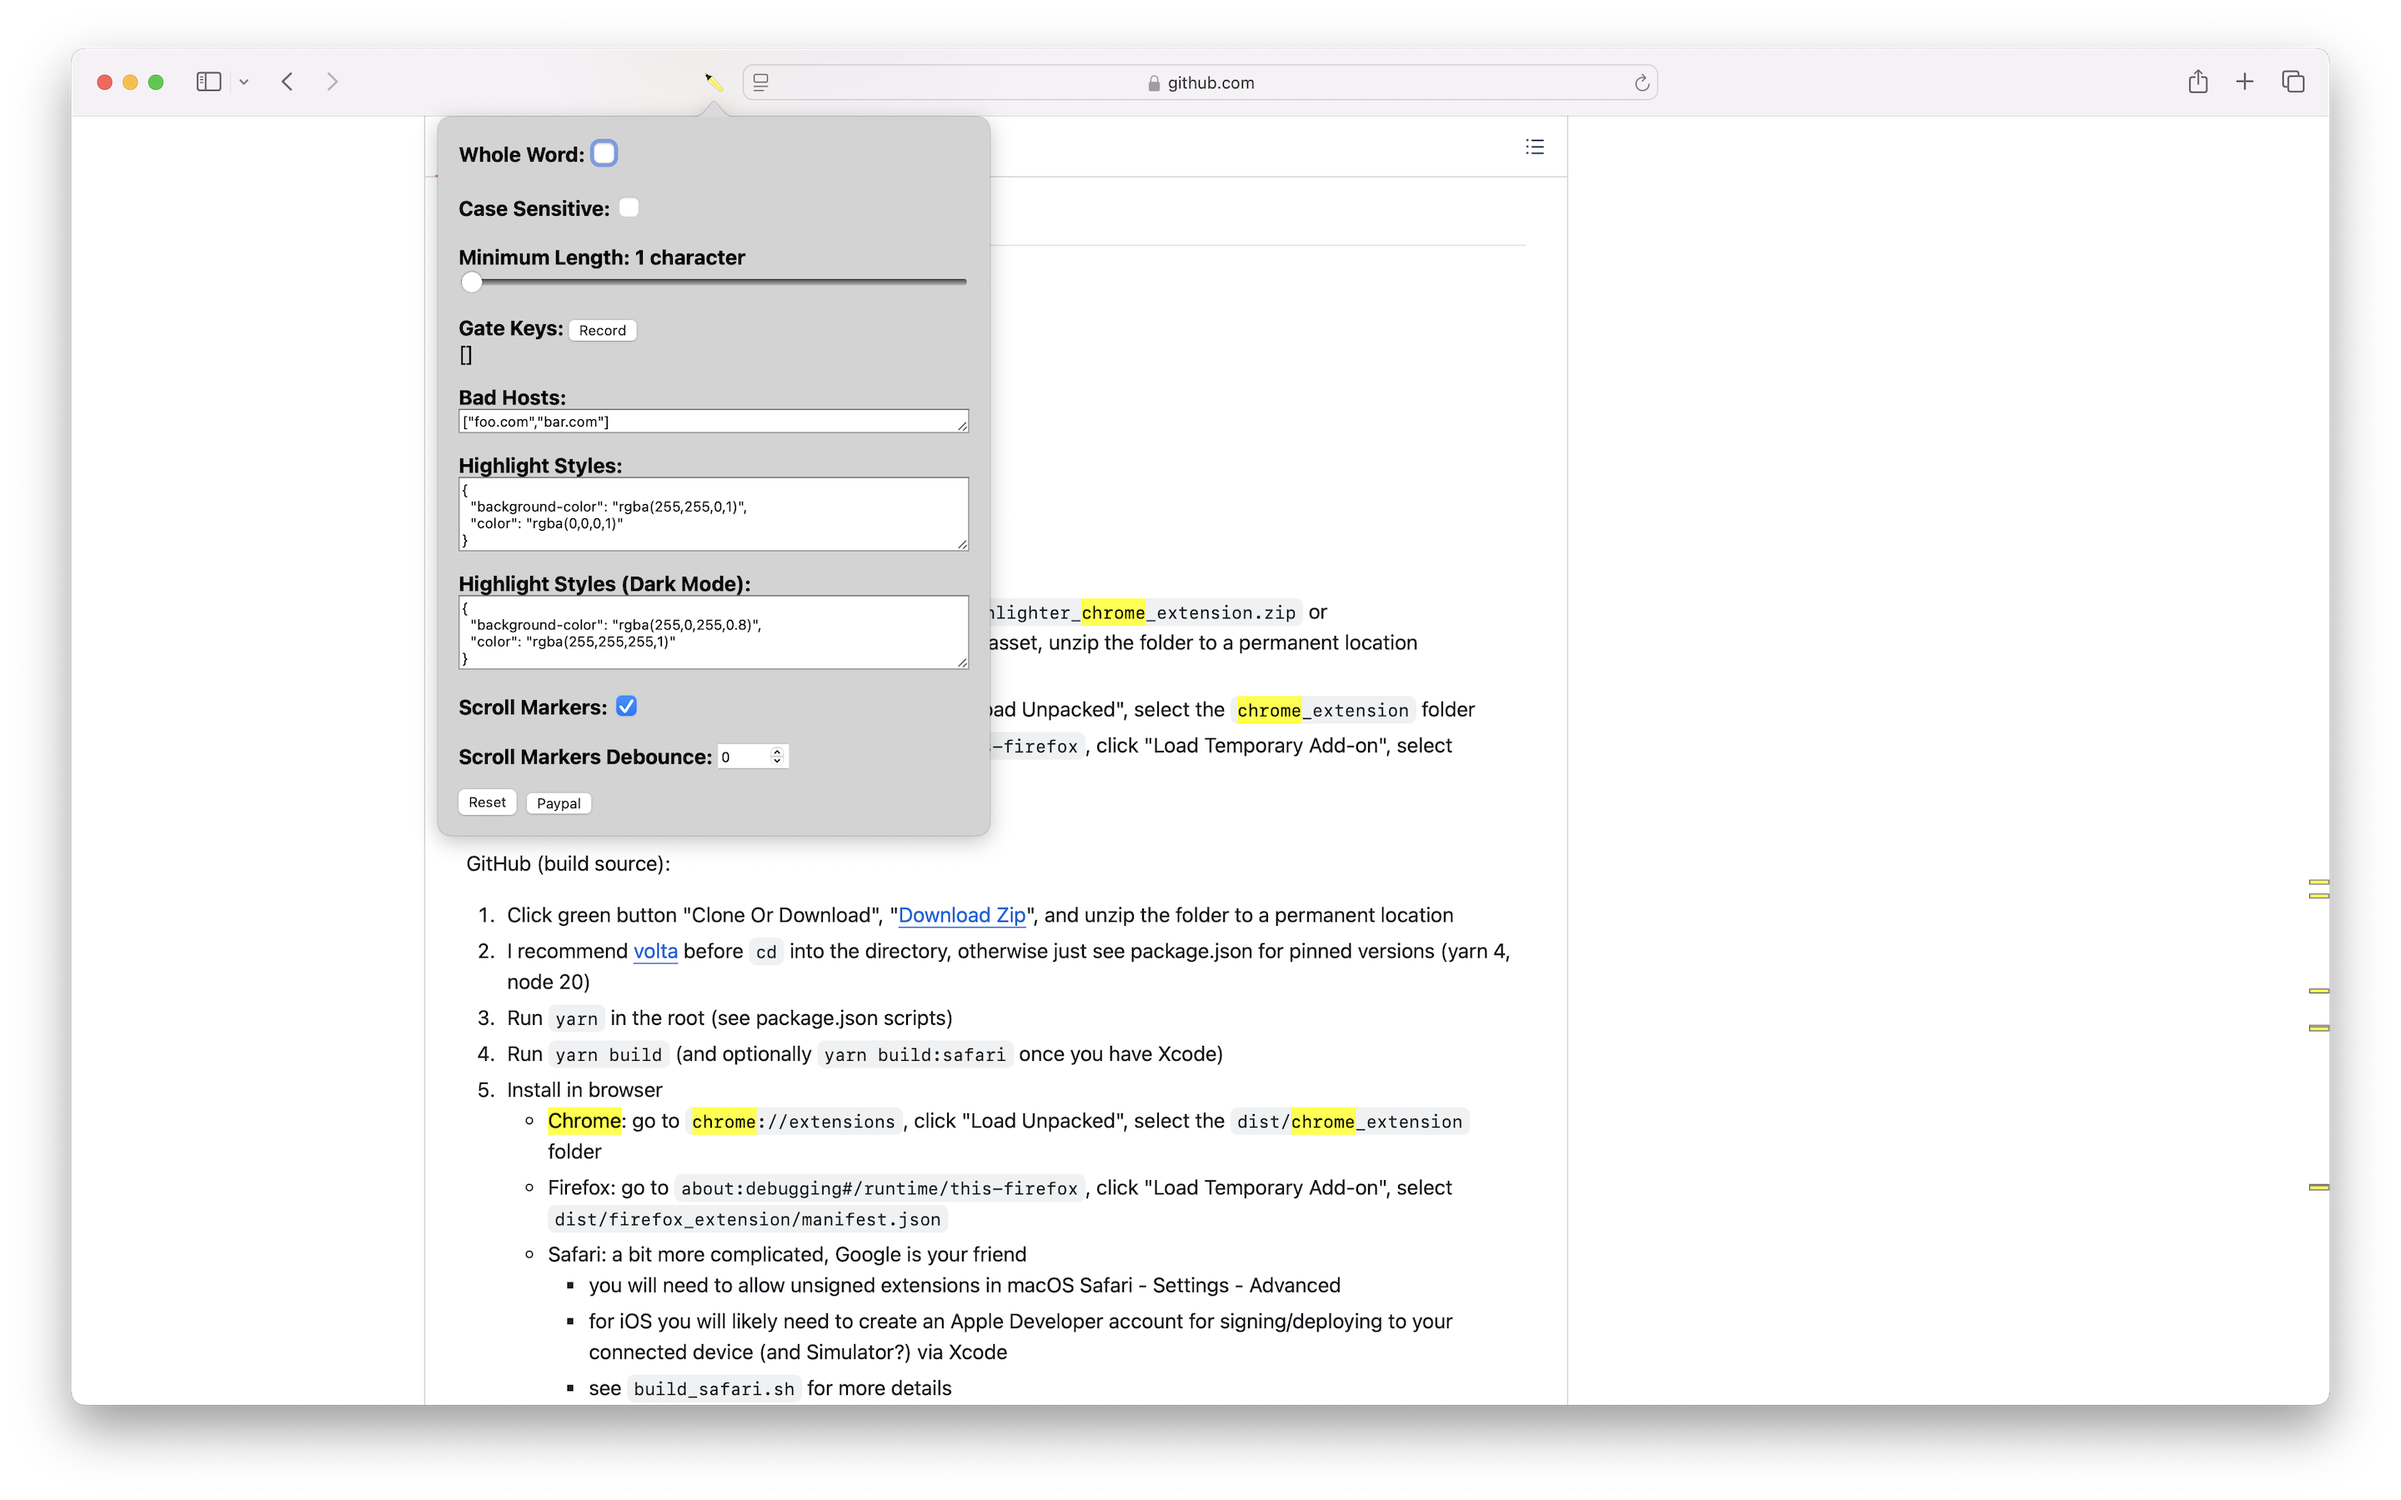
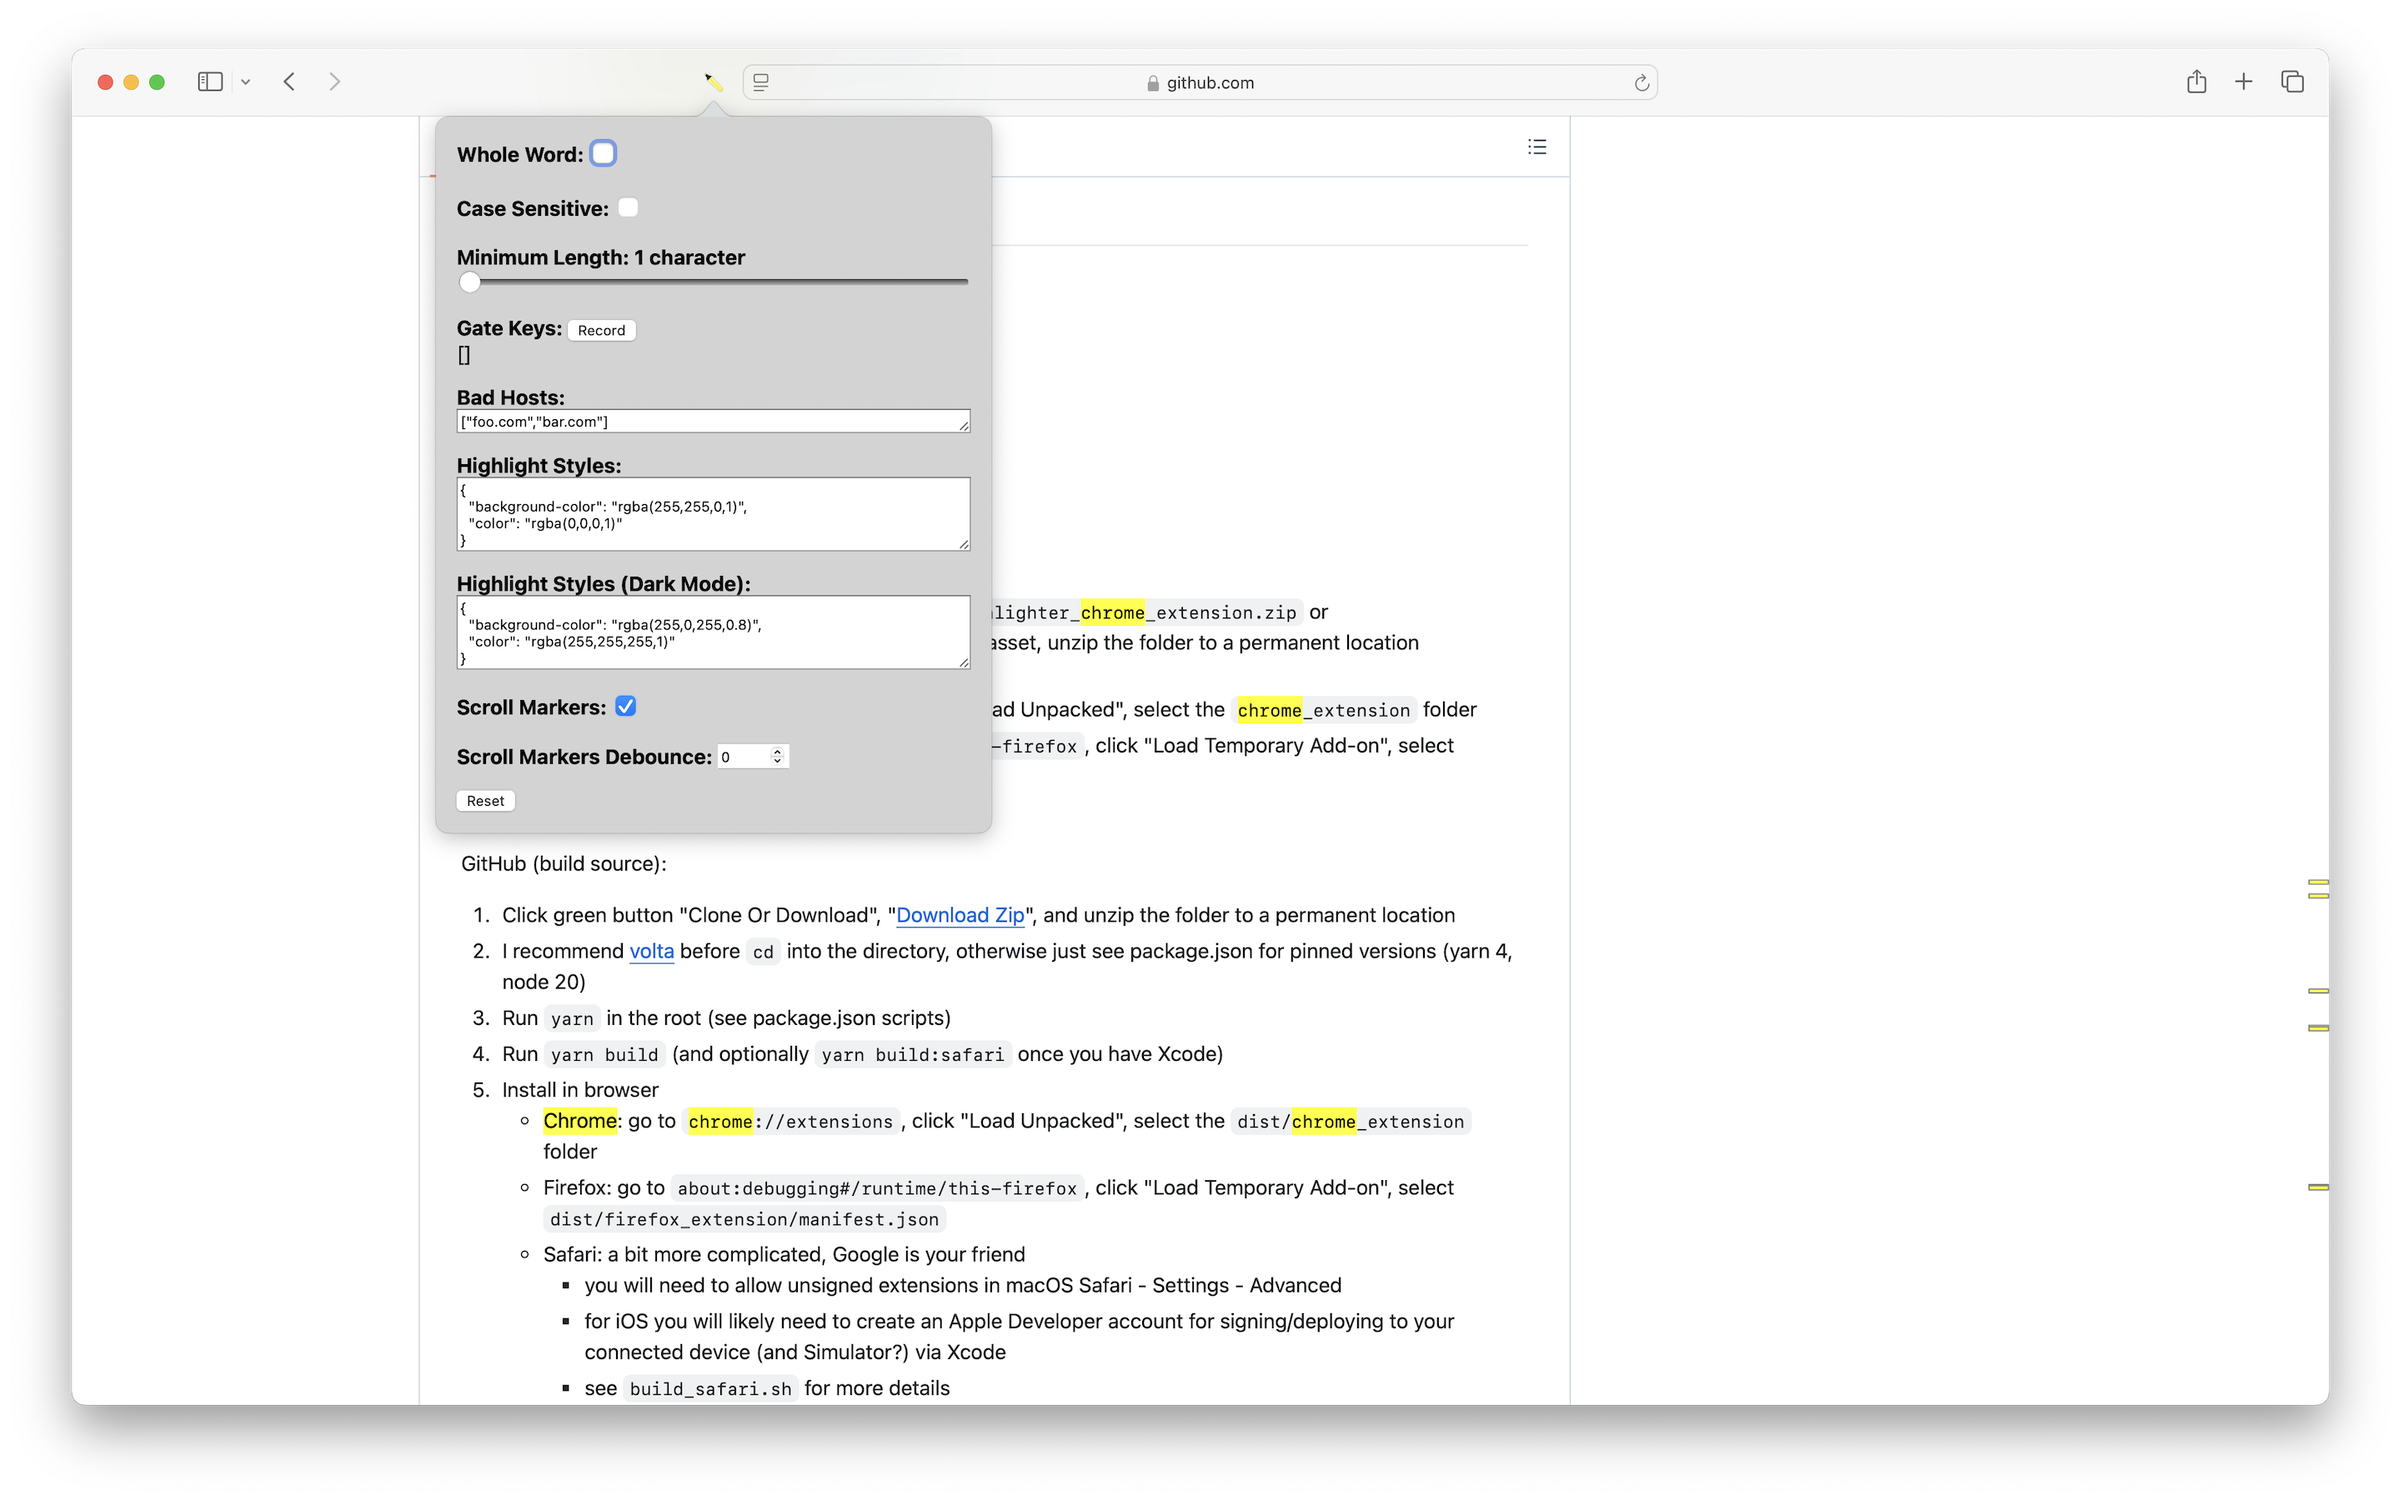
fix: remove paypal from safari versions

diff --git a/webpack.config.ts b/webpack.config.ts
@@ -1,5 +1,5 @@
 import path from "path";
-import { Configuration } from "webpack";
+import { Configuration, DefinePlugin } from "webpack";
 
 import packageJson from "./package.json";
 import { CleanWebpackPlugin } from "clean-webpack-plugin";
@@ -23,6 +23,7 @@ const config: Configuration[] = [
     outputDirectory: `dist/chrome_extension/content_script`,
   }),
   popup({
+    doesSupportPaypal: true,
     entry: `./src/popup/main.tsx`,
     outputDirectory: `dist/chrome_extension/popup`,
   }),
@@ -44,6 +45,7 @@ const config: Configuration[] = [
     outputDirectory: `dist/firefox_extension/content_script`,
   }),
   popup({
+    doesSupportPaypal: true,
     entry: `./src/popup/main.tsx`,
     outputDirectory: `dist/firefox_extension/popup`,
   }),
@@ -62,6 +64,7 @@ const config: Configuration[] = [
     outputDirectory: `build/safari_extension/content_script`,
   }),
   popup({
+    doesSupportPaypal: false,
     entry: `./src/popup/main.tsx`,
     outputDirectory: `build/safari_extension/popup`,
   }),
@@ -172,10 +175,15 @@ function content_script({
 }
 
 type PopupConfig = {
+  doesSupportPaypal: boolean;
   entry: string;
   outputDirectory: string;
 };
-function popup({ entry, outputDirectory }: PopupConfig): Configuration {
+function popup({
+  doesSupportPaypal,
+  entry,
+  outputDirectory,
+}: PopupConfig): Configuration {
   return {
     entry: entry,
     output: {
@@ -184,6 +192,9 @@ function popup({ entry, outputDirectory }: PopupConfig): Configuration {
     plugins: [
       new HtmlWebPackPlugin({
         title: `Selection Highlighter Options`,
+      }),
+      new DefinePlugin({
+        "process.env.DOES_SUPPORT_PAYPAL": JSON.stringify(doesSupportPaypal),
       }),
     ],
     module: {

diff --git a/src/popup/Form.tsx b/src/popup/Form.tsx
@@ -12,6 +12,8 @@ import { ScrollMarkers } from "./sections/ScrollMarkers";
 import { ScrollMarkersDebounce } from "./sections/ScrollMarkersDebounce";
 import { WholeWord } from "./sections/WholeWord";
 
+const doesSupportPaypal = process.env.DOES_SUPPORT_PAYPAL;
+
 export const Form: React.FC = () => {
   const [options, setOptions] = useState(defaultOptions);
 
@@ -52,12 +54,20 @@ export const Form: React.FC = () => {
         <ResetButton type="button" onClick={() => setOptions(defaultOptions)}>
           Reset
         </ResetButton>
-        <PaypalLink
-          target="_blank"
-          href="https://www.paypal.com/donate/?business=L5G6ATNAMJHC4&no_recurring=0&currency_code=USD"
-        >
-          <button type="button">Paypal</button>
-        </PaypalLink>
+        {doesSupportPaypal && (
+          <PaypalButton
+            type="button"
+            title="https://www.paypal.com/donate/?business=L5G6ATNAMJHC4&no_recurring=0&currency_code=USD"
+            onClick={() =>
+              window.open(
+                "https://www.paypal.com/donate/?business=L5G6ATNAMJHC4&no_recurring=0&currency_code=USD",
+                "_blank"
+              )
+            }
+          >
+            Paypal
+          </PaypalButton>
+        )}
       </FormButtons>
     </FormContainer>
   );
@@ -109,6 +119,6 @@ const FormButtons = styled.div`
 const ResetButton = styled.button`
   flex: 0 1 0;
 `;
-const PaypalLink = styled.a`
+const PaypalButton = styled.button`
   flex: 0 1 0;
 `;

diff --git a/src/types/env.d.ts b/src/types/env.d.ts
@@ -1,0 +1,5 @@
+declare namespace NodeJS {
+  interface ProcessEnv {
+    DOES_SUPPORT_PAYPAL: boolean;
+  }
+}
